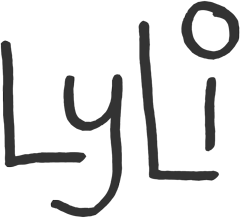
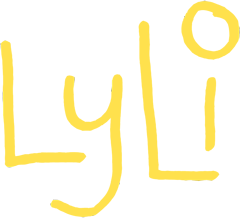
Add halloween theme

diff --git a/static/style.css b/static/style.css
@@ -5,8 +5,8 @@ html {
           text-size-adjust: 100%;
 }
 body {
-  background-color: #95c374;
-  color: #333;
+  background-color: #53402d;
+  color: #ffe14d;
   font-family: "Slabo 13px", Georgia, serif;
   font-size: 18px;
   margin: 0;
@@ -16,9 +16,9 @@ body {
   margin: 1em auto;
   padding: 1.5em 3em;
   max-width: 37em;
-  border: 1px solid #79b34f;
+  border: 1px solid #7d6043;
   border-radius: 10px;
-  background-color: #fbf5da;
+  background-color: #1f1f1f;
 }
 form,
 div {
@@ -43,7 +43,7 @@ pre {
   background-color: #f2efeb;
 }
 a {
-  color: #007ebd;
+  color: #b27de8;
   text-decoration: none;
 }
 a:hover {
@@ -61,15 +61,15 @@ img {
 footer,
 footer > a {
   font-size: 14px;
-  color: #78786d;
+  color: #c50;
   line-height: 160%;
 }
 footer {
   text-align: center;
 }
 div.notification {
-  background-color: #ffe3a3;
-  border: 1px solid #dec17d;
+  background-color: #282843;
+  border: 1px solid #4b4b65;
   border-radius: 8px;
   padding: 1.5em;
   margin-bottom: 2em;
@@ -81,14 +81,14 @@ div.notification h2 {
   margin: 0 0 0.2em 0;
 }
 div.notification span {
-  color: #6e6c5f;
+  color: #ef6608;
 }
 div.notification span.notfound {
   text-decoration: underline;
-  color: #d84218;
+  color: #e64619;
 }
 div.notification a {
-  color: #007ebd;
+  color: #b27de8;
 }
 #newurl {
   font-size: 32px;
@@ -103,8 +103,9 @@ input[type=url] {
   width: 100%;
   max-width: 100%;
   border-radius: 4px;
-  border: 1px solid #ccc;
-  color: #333;
+  border: 1px solid #c50;
+  color: #ffe14d;
+  background-color: #1f1f1f;
   font-family: "Slabo 13px", Georgia, serif;
   font-size: 18px;
   -webkit-appearance: none;
@@ -125,23 +126,33 @@ input.shorter {
   max-width: calc(100% - 4em);
 }
 ::-webkit-input-placeholder {
-  color: #aaa;
+  color: #c50;
 }
 ::-moz-placeholder {
-  color: #aaa;
+  color: #c50;
 }
 :-ms-input-placeholder {
-  color: #aaa;
+  color: #c50;
 }
 ::placeholder {
-  color: #aaa;
+  color: #c50;
+}
+::-moz-selection {
+  background: #e66f19;
+}
+::selection {
+  background: #e66f19;
+}
+:focus {
+  outline: none !important;
+  box-shadow: 0 0 12px #ff6;
 }
 label {
   font-size: 14px;
 }
 .error {
   font-size: 14px;
-  color: #d61d00;
+  color: #ff0015;
   line-height: 160%;
 }
 button {
@@ -152,12 +163,12 @@ button {
   border: none;
   font-family: "Slabo 13px", Georgia, serif;
   font-size: 18px;
-  color: #fff;
-  background-color: #41a441;
+  color: #ff6;
+  background-color: #c50;
 }
 button:hover {
-/*background-color: saturate(darken(buttoncolor, 10), 15)*/
-  background-color: #2e902e;
+/*background-color: saturate(lighten(buttoncolor, 10), 15)*/
+  background-color: #ff6700;
 }
 @media all and (max-width: 48em) {
   .content {
